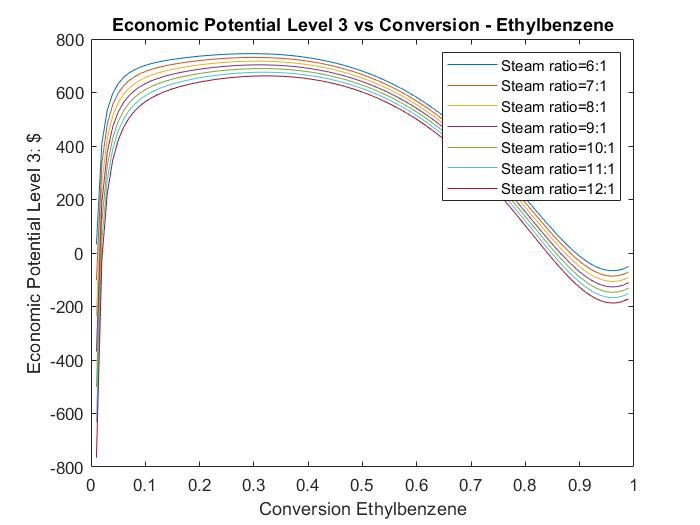
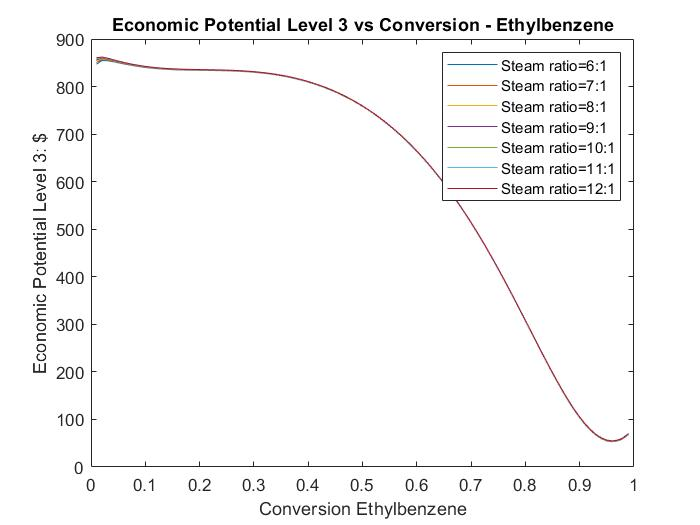
bug fix

diff --git a/Task3/level3EP.m b/Task3/level3EP.m
@@ -10,9 +10,10 @@ ab = [0.0006 0.086 -0.158 0.267 0];
 at = [0.0006 0.415 -2.48 5.84 -3.437];
 
 
-for M = 6:1:12
+for i = 6:1:12
     EP3 = [];
     conv = [];
+    M=1/i;
     for x = 0.01:0.01:0.999
 
     ss = as(1) +as(2)*x + as(3)*x*x + as(4)*x*x*x+ as(5)*x*x*x*x;
@@ -45,7 +46,7 @@ for M = 6:1:12
     end
     
     plot(conv, EP3)
-    Legend{M-5}=strcat('Steam ratio= ', num2str(M),':1');
+    Legend{i-5}=strcat('Steam ratio= ', num2str(i),':1');
     hold on
     
 end 
